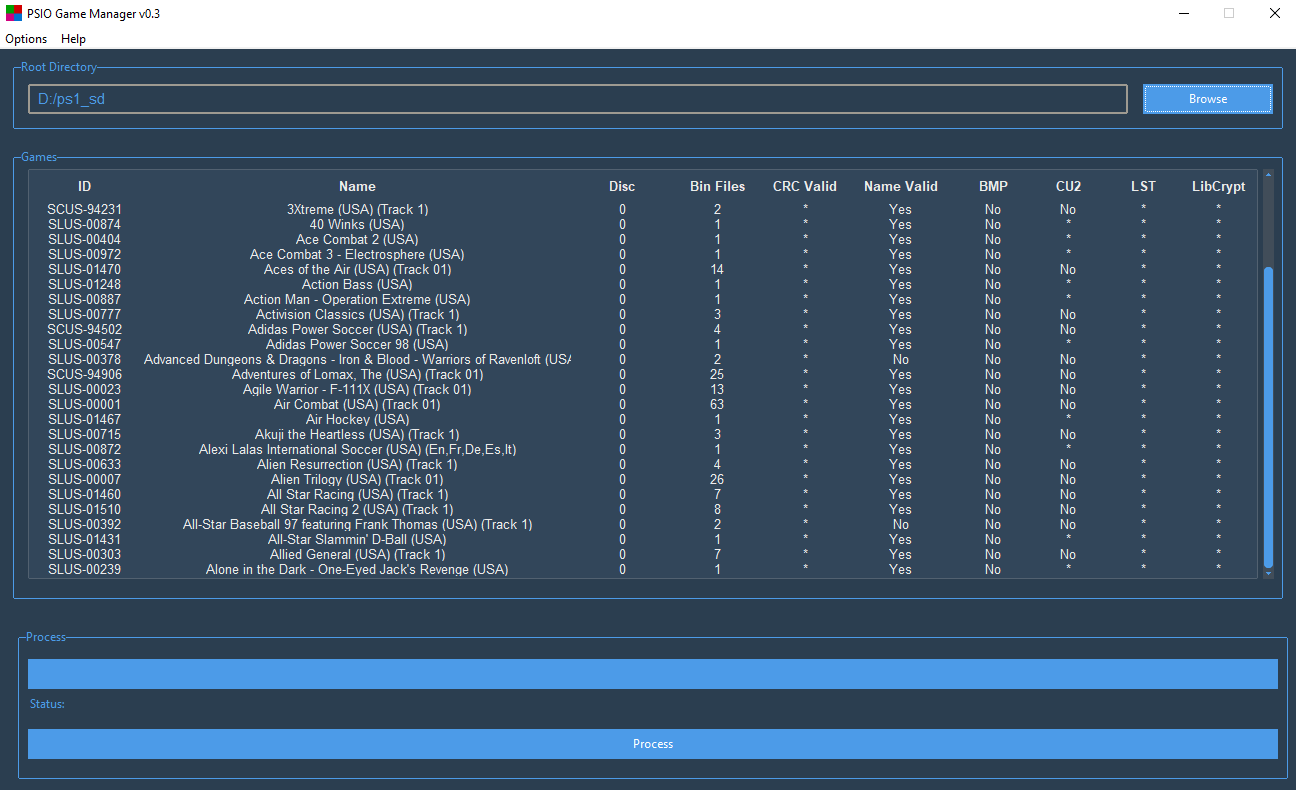
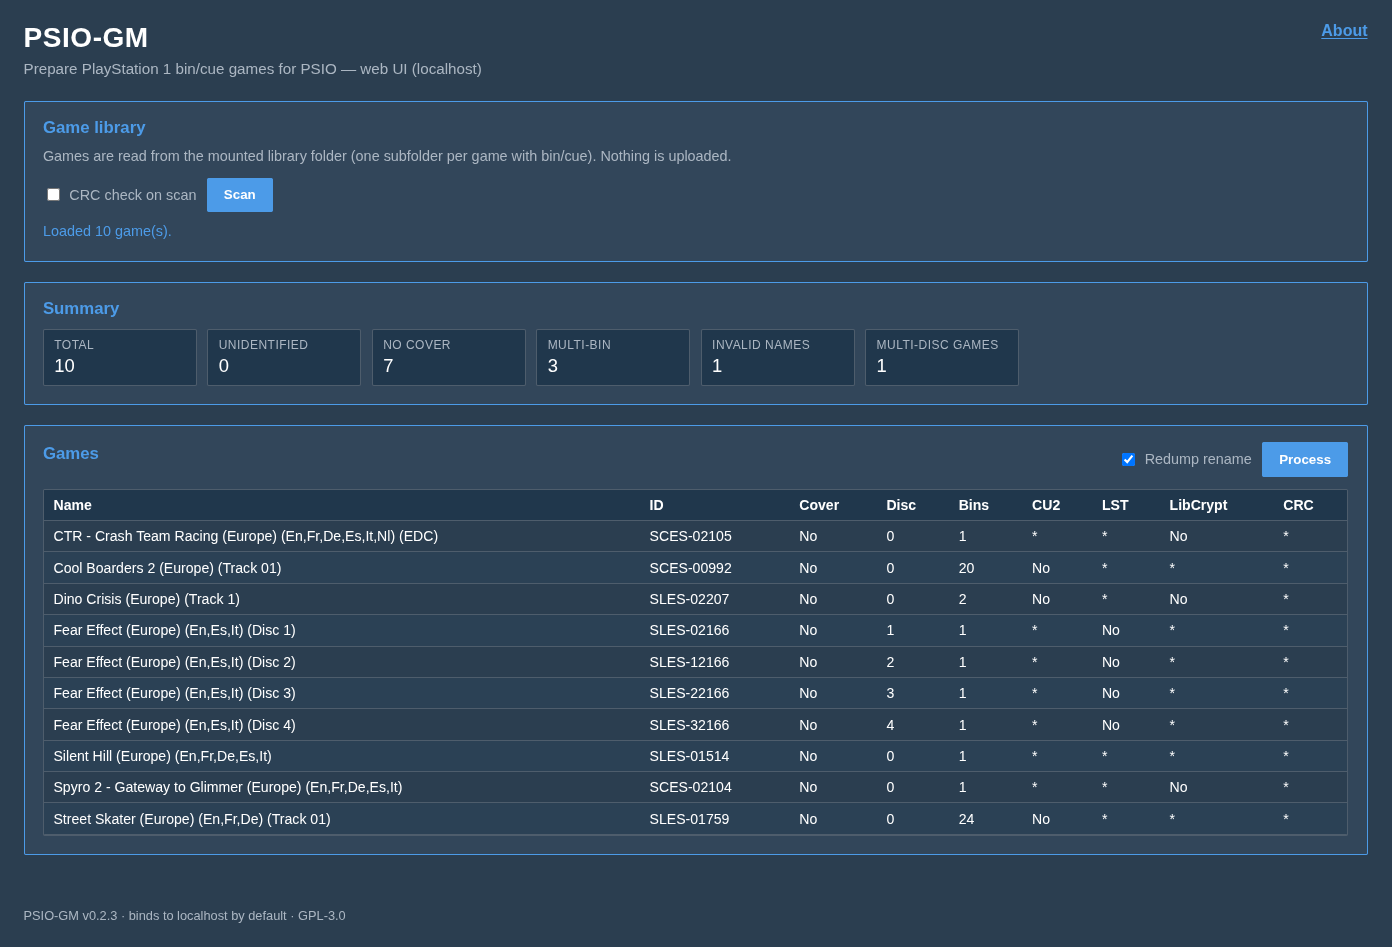
docs: refresh README screenshot; move Cover before Disc
Show the current web UI in the README and put Cover left of Disc in the games table.

diff --git a/src/webapp/templates/index.html b/src/webapp/templates/index.html
@@ -68,9 +68,9 @@
             <tr>
               <th>Name</th>
               <th>ID</th>
+              <th>Cover</th>
               <th>Disc</th>
               <th>Bins</th>
-              <th>Cover</th>
               <th>CU2</th>
               <th>LST</th>
               <th>LibCrypt</th>
@@ -82,9 +82,9 @@
             <tr>
               <td>{{ g.name }}</td>
               <td>{{ g.id or '—' }}</td>
+              <td>{{ 'Yes' if g.cover_art else 'No' }}</td>
               <td>{{ g.disc_number }}</td>
               <td>{{ g.bin_count }}</td>
-              <td>{{ 'Yes' if g.cover_art else 'No' }}</td>
               <td>{% if not g.cu2_required %}*{% elif g.cu2_present %}Yes{% else %}No{% endif %}</td>
               <td>{% if not g.multi_disc %}*{% elif g.lst_present %}Yes{% else %}No{% endif %}</td>
               <td>{% if not g.libcrypt_required %}*{% elif g.libcrypt_applied %}Yes{% else %}No{% endif %}</td>

diff --git a/src/webapp/static/app.js b/src/webapp/static/app.js
@@ -72,9 +72,9 @@
         (g) => `<tr>
           <td>${escapeHtml(g.name)}</td>
           <td>${escapeHtml(g.id || "—")}</td>
+          <td>${g.cover_art ? "Yes" : "No"}</td>
           <td>${g.disc_number}</td>
           <td>${g.bin_count}</td>
-          <td>${g.cover_art ? "Yes" : "No"}</td>
           <td>${cu2Label(g)}</td>
           <td>${lstLabel(g)}</td>
           <td>${libcryptLabel(g)}</td>

diff --git a/CHANGELOG.md b/CHANGELOG.md
@@ -10,6 +10,8 @@ Format is based on [Keep a Changelog](https://keepachangelog.com/en/1.1.0/).
 
 ### Changed
 - **Web UI** — content column centred at max **1400px** (full width on smaller screens)
+- **Web UI** — games table: Cover column moved left of Disc
+- **Docs** — README screenshot updated to the v0.2 web UI
 
 ## [0.2.3] — 2026-08-13
 

diff --git a/README.md b/README.md
@@ -4,7 +4,7 @@
 Prepare PlayStation 1 bin/cue games for use with a PSIO device.<br>
 The all-in-one solution to preparing your PSIO collection.<br>
 
-![alt text](image.png)
+![PSIO-GM web UI](image.png)
 
 ## About this fork
 **PSIO-GM** is a maintained fork of [logi-26/psio-game-manager](https://github.com/logi-26/psio-game-manager).
